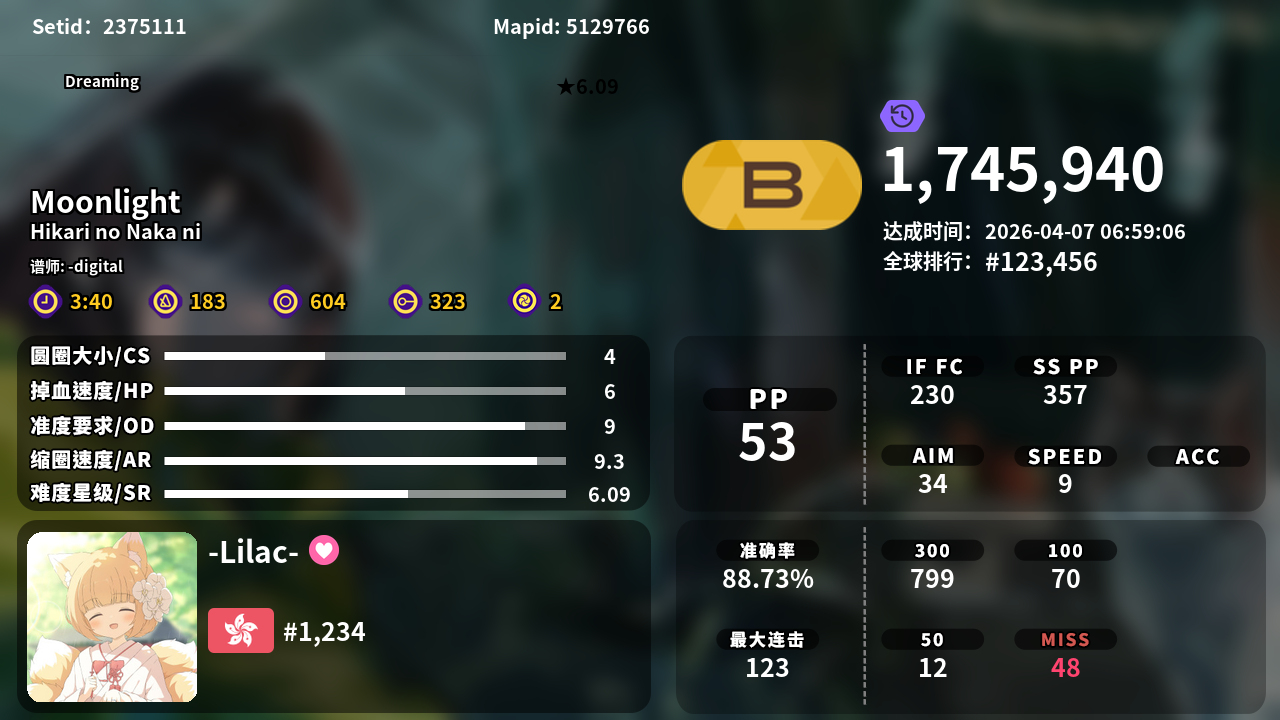
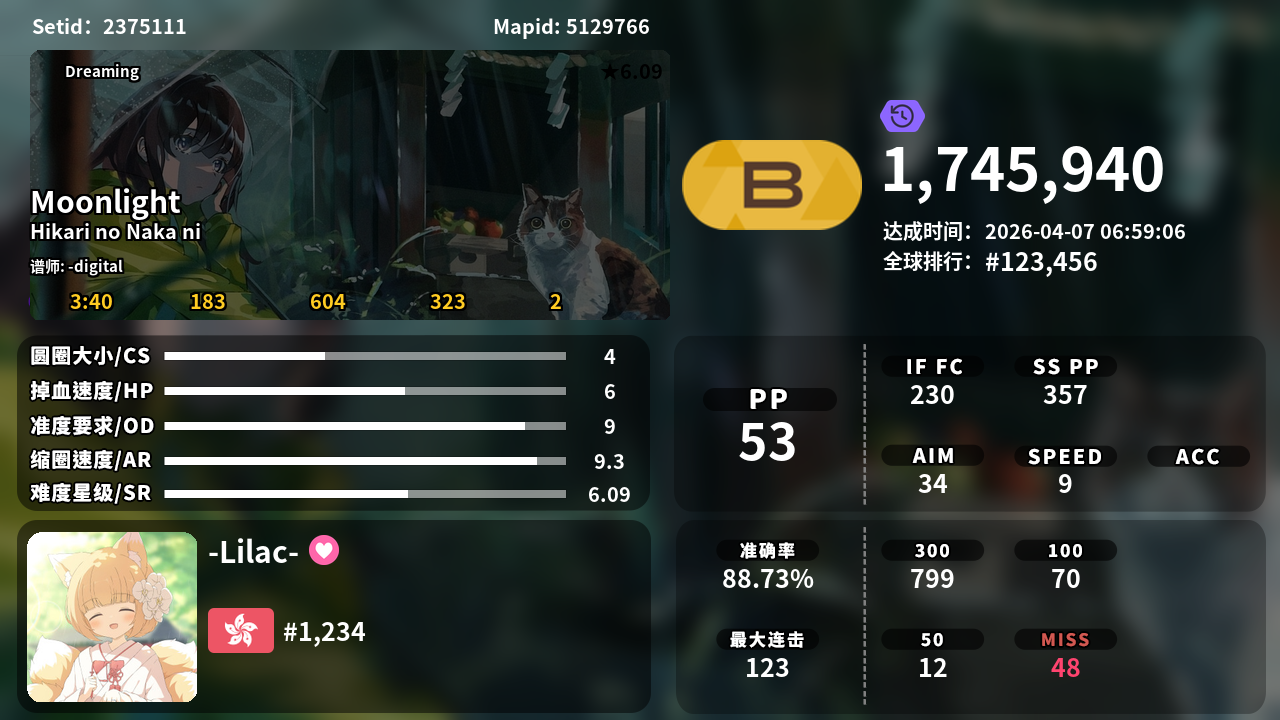
feat: add beatmap background to score card and realign difficulty/stars
- Add download_beatmap_cover function to fetch beatmapset cover images
- Apply beatmap background to top-left card area with rounded corners
- Adjust difficulty and star rating positioning to align with title (65,70 and 600,70)
- Implement brightness adjustment for readability over background

Changed region(s): [[0.0, 0.0611, 0.5312, 0.4583], [0.0, 0.3972, 0.0625, 0.4583]]

diff --git a/draw.py b/draw.py
@@ -398,6 +398,56 @@ async def download_user_cover(cover_url: str, user_id: int) -> Optional[Image.Im
         return None
 
 
+async def download_beatmap_cover(covers: Dict[str, str]) -> Optional[Image.Image]:
+    """下载谱面铺面的背景图片
+    
+    Args:
+        covers: 谱面封面信息字典，包含cover/card等URL
+        
+    Returns:
+        图片对象，失败返回None
+    """
+    if not covers:
+        return None
+    
+    # 优先使用 cover@2x，然后是 cover
+    cover_url = covers.get('cover@2x') or covers.get('cover')
+    if not cover_url:
+        return None
+    
+    # 生成缓存文件名（从URL提取beatmapset ID）
+    try:
+        beatmapset_id = cover_url.split('/')[-2]  # 通常格式: https://b.ppy.sh/thumb/{beatmapset_id}l.jpg
+    except:
+        beatmapset_id = "unknown"
+    
+    # 检查缓存
+    cache_path = CACHE_DIR / f"beatmap_cover_{beatmapset_id}.png"
+    if cache_path.exists():
+        try:
+            return Image.open(cache_path).convert("RGBA")
+        except Exception:
+            pass
+    
+    # 下载背景图
+    try:
+        async with httpx.AsyncClient(timeout=10.0, follow_redirects=True) as client:
+            resp = await client.get(cover_url)
+            resp.raise_for_status()
+            
+            img = Image.open(BytesIO(resp.content)).convert("RGBA")
+            
+            # 保存到缓存
+            try:
+                img.save(cache_path, "PNG")
+            except Exception:
+                pass
+            
+            return img
+    except Exception as e:
+        print(f"Failed to download beatmap cover: {e}")
+        return None
+
 
 def draw_text_with_outline(
     draw: ImageDraw.ImageDraw,
@@ -474,10 +524,10 @@ class ScoreImageGenerator:
         im = Image.new("RGBA", (self.width, self.height))
         draw = ImageDraw.Draw(im)
         
-        # 第1层：下载并处理谱面背景
-        beatmapset_id = beatmap_info.get("beatmapset_id")
-        if beatmapset_id:
-            bg_img = await download_beatmap_cover(beatmapset_id)
+        # 第1层：下载并处理谱面背景（全屏）
+        covers = beatmap_info.get("covers", {})
+        if covers:
+            bg_img = await download_beatmap_cover(covers)
             if bg_img:
                 # 裁剪到合适尺寸
                 bg_cropped = await crop_bg((self.width, self.height), bg_img)
@@ -496,6 +546,23 @@ class ScoreImageGenerator:
             if mode_bg.size != (self.width, self.height):
                 mode_bg = mode_bg.resize((self.width, self.height), Image.Resampling.LANCZOS)
             im.alpha_composite(mode_bg, (0, 0))
+        
+        # 第2.3层：红框区域的beatmap背景（左上方谱面信息卡片）
+        try:
+            covers = beatmap_info.get("covers", {})
+            if covers:
+                card_bg = await download_beatmap_cover(covers)
+                if card_bg:
+                    # 裁剪到红框区域大小（宽约640, 高约270）
+                    card_bg_cropped = await crop_bg((640, 270), card_bg)
+                    # 降低亮度，避免覆盖文字
+                    card_bg_dimmed = ImageEnhance.Brightness(card_bg_cropped).enhance(0.35)
+                    # 添加圆角效果
+                    card_bg_fillet = draw_fillet(card_bg_dimmed, 10)
+                    # 贴在左上方 (30, 50)
+                    im.alpha_composite(card_bg_fillet, (30, 50))
+        except Exception as e:
+            print(f"Failed to apply beatmap background to card: {e}")
             
         # 第2.5层：用户个人Banner背景（如果存在 cover_url）
         user_id = user_info.get('id')
@@ -576,11 +643,11 @@ class ScoreImageGenerator:
             fill=(255, 255, 255, 255)
         )
         
-        # 谱面版本 (65, 80) - 在模式图标右侧
+        # 谱面版本（难度标签） (65, 70)
         version = beatmap_info.get('version', '???')
         draw_text_with_outline(
             draw,
-            (65, 80),
+            (65, 70),
             version,
             self.assets.get_font('torus_sb_15'),
             fill=(255, 255, 255, 255),
@@ -626,7 +693,7 @@ class ScoreImageGenerator:
             anchor="lm"
         )
         
-        # 星级 (556, 85)
+        # 星级 (600, 70) - 与难度版本同一水平线
         difficulty = beatmap_info.get("difficulty_rating", 0)
         if difficulty < 6.5:
             star_color = (0, 0, 0, 255)
@@ -634,7 +701,7 @@ class ScoreImageGenerator:
             star_color = (255, 217, 102, 255)
         
         draw.text(
-            (556, 85),
+            (600, 70),
             f"★{difficulty:.2f}",
             font=self.assets.get_font('torus_sb_20'),
             anchor="lm",
